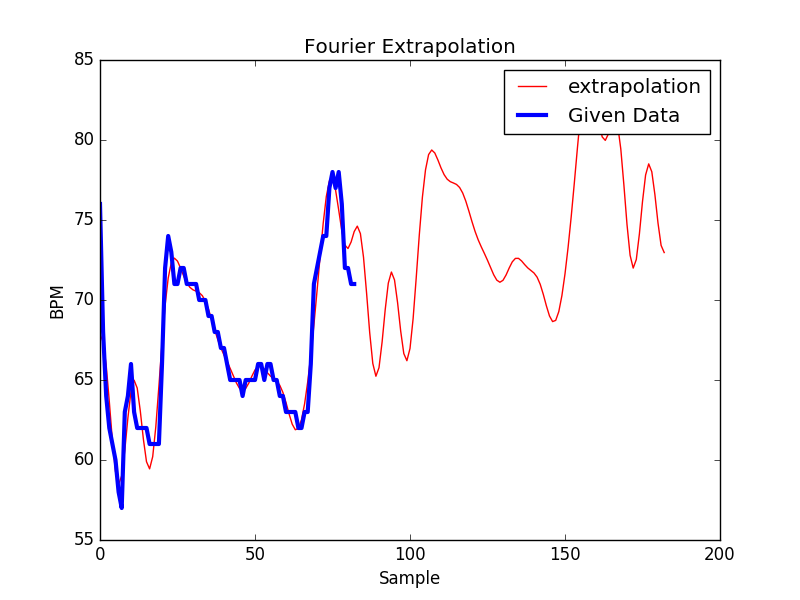
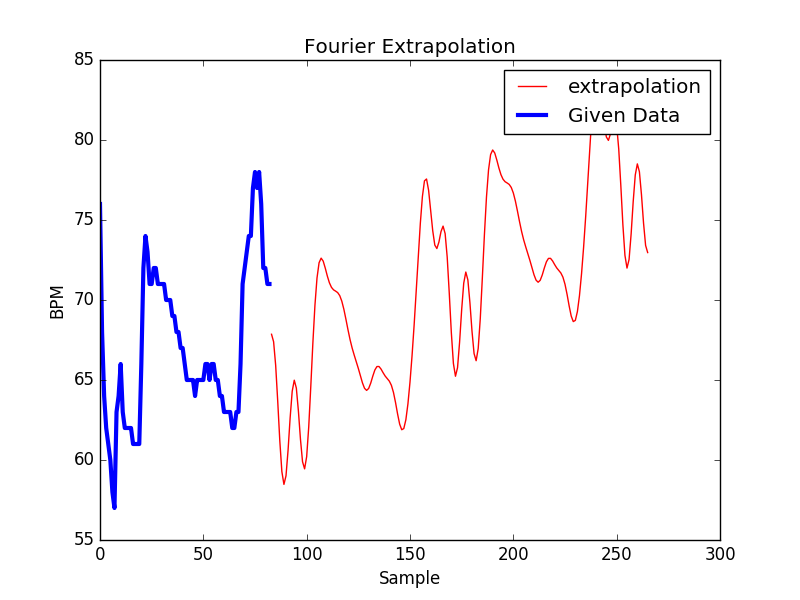
fourier fig

diff --git a/Fourier/Fourier.py b/Fourier/Fourier.py
@@ -29,8 +29,9 @@ def main():
     test = np.array([669, 592, 664, 1005, 699, 401, 646, 472, 598, 681, 1126, 1260, 562, 491, 714, 530, 521, 687, 776, 802, 499, 536, 871, 801, 965, 768, 381, 497, 458, 699, 549, 427, 358, 219, 635, 756, 775, 969, 598, 630, 649, 722, 835, 812, 724, 966, 778, 584, 697, 737, 777, 1059, 1218, 848, 713, 884, 879, 1056, 1273, 1848, 780, 1206, 1404, 1444, 1412, 1493, 1576, 1178, 836, 1087, 1101, 1082, 775, 698, 620, 651, 731, 906, 958, 1039, 1105, 620, 576, 707, 888, 1052, 1072, 1357, 768, 986, 816, 889, 973, 983, 1351, 1266, 1053, 1879, 2085, 2419, 1880, 2045, 2212, 1491, 1378, 1524, 1231, 1577, 2459, 1848, 1506, 1589, 1386, 1111, 1180, 1075, 1595, 1309, 2092, 1846, 2321, 2036, 3587, 1637, 1416, 1432, 1110, 1135, 1233, 1439, 894, 628, 967, 1176, 1069, 1193, 1771, 1199, 888, 1155, 1254, 1403, 1502, 1692, 1187, 1110, 1382, 1808, 2039, 1810, 1819, 1408, 803, 1568, 1227, 1270, 1268, 1535, 873, 1006, 1328, 1733, 1352, 1906, 2029, 1734, 1314, 1810, 1540, 1958, 1420, 1530, 1126, 721, 771, 874, 997, 1186, 1415, 973, 1146, 1147, 1079, 3854, 3407, 2257, 1200, 734, 1051, 1030, 1370, 2422, 1531, 1062, 530, 1030, 1061, 1249, 2080, 2251, 1190, 756, 1161, 1053, 1063, 932, 1604, 1130, 744, 930, 948, 1107, 1161, 1194, 1366, 1155, 785, 602, 903, 1142, 1410, 1256, 742, 985, 1037, 1067, 1196, 1412, 1127, 779, 911, 989, 946, 888, 1349, 1124, 761, 994, 1068, 971, 1157, 1558, 1223, 782, 2790, 1835, 1444, 1098, 1399, 1255, 950, 1110, 1345, 1224, 1092, 1446, 1210, 1122, 1259, 1181, 1035, 1325, 1481, 1278, 769, 911, 876, 877, 950, 1383, 980, 705, 888, 877, 638, 1065, 1142, 1090, 1316, 1270, 1048, 1256, 1009, 1175, 1176, 870, 856, 860])
     n_predict = 100
     extrapolation = fourierExtrapolation(x, n_predict)
+
     pl.figure()
-    pl.plot(extrapolation, 'r', label = 'extrapolation')
+    pl.plot(np.arange(len(x), len(extrapolation) + len(x)), extrapolation, 'r', label = 'extrapolation')
     pl.plot(x, 'b', label = 'Given Data', linewidth = 3)
     pl.legend()
     pl.ylabel('BPM')
